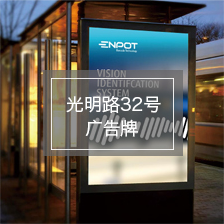
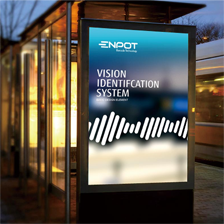
1
1

Changed region(s): [[0.1875, 0.3125, 0.8438, 0.7188]]

diff --git a/index.html b/index.html
@@ -295,23 +295,55 @@
   <div class="tip1"><img src="images/huwai1.png" width="236" height="25" /><div class="nr">更多<img src="images/down1.png" width="15" height="15" /></div></div>
 
   <div class="goods1">
-<div class="zero"><img src="images/tc0.png" width="533" height="224" /></div>
-  <div class="tc" id="tc2"><img src="images/tc1.png" width="224" height="224" /></div>
-  <div class="tc" id="tc3"><img src="images/tc2.png" width="224" height="224" /></div>
-  <div class="tc" id="tc1"><img src="images/tc3.png" width="224" height="224" /></div> 
-  <div class="tc" id="tc2"><img src="images/tc4.png" width="224" height="224" /></div>
-  <div class="tc" id="tc3"><img src="images/tc5.png" width="224" height="224" /></div> 
-  <div class="tc" id="tc4"><img src="images/tc6.png" width="224" height="224" /></div>  
+<div class="zero"><div class="g_box" id="zero_t">
+<div class="g_box_a">光明路<br />户外大牌<br />3000元</div>
+</div><img src="images/tc7.png" width="533" height="224" /></div>
+  <div class="tc" id="tc2"><div class="g_box">
+<div class="g_box_a">光明路<br />户外大牌<br />3000元</div>
+</div><img src="images/tc1.png" width="224" height="224" /></div>
+  <div class="tc" id="tc3"><div class="g_box">
+<div class="g_box_a">光明路<br />户外大牌<br />3000元</div>
+</div><img src="images/tc2.png" width="224" height="224" /></div>
+  <div class="tc" id="tc1">
+  <div class="g_box">
+<div class="g_box_a">光明路<br />户外大牌<br />3000元</div>
+</div>
+  <img src="images/tc3.png" width="224" height="224" /></div> 
+  <div class="tc" id="tc2"><div class="g_box">
+<div class="g_box_a">光明路<br />户外大牌<br />3000元</div>
+</div><img src="images/tc4.png" width="224" height="224" /></div>
+  <div class="tc" id="tc3"><div class="g_box">
+<div class="g_box_a">光明路<br />户外大牌<br />3000元</div>
+</div><img src="images/tc5.png" width="224" height="224" /></div> 
+  <div class="tc" id="tc4"><div class="g_box">
+<div class="g_box_a">光明路<br />户外大牌<br />3000元</div>
+</div><img src="images/tc6.png" width="224" height="224" /></div>  
   <div class="test2" id="test2">
 
-  <div class="tc" id="tc1"><img src="images/tc3.png" width="224" height="224" /></div> 
-  <div class="tc" id="tc2"><img src="images/tc1.png" width="224" height="224" /></div>
-  <div class="tc" id="tc3"><img src="images/tc2.png" width="224" height="224" /></div>
-   <div class="tc" id="tc4"><img src="images/tc6.png" width="224" height="224" /></div>
-  <div class="tc" id="tc1"><img src="images/tc3.png" width="224" height="224" /></div> 
-  <div class="tc" id="tc2"><img src="images/tc4.png" width="224" height="224" /></div>
-  <div class="tc" id="tc3"><img src="images/tc5.png" width="224" height="224" /></div> 
-  <div class="tc" id="tc4"><img src="images/tc6.png" width="224" height="224" /></div>
+  <div class="tc" id="tc1"><div class="g_box">
+<div class="g_box_a">光明路<br />户外大牌<br />3000元</div>
+</div><img src="images/tc3.png" width="224" height="224" /></div> 
+  <div class="tc" id="tc2"><div class="g_box">
+<div class="g_box_a">光明路<br />户外大牌<br />3000元</div>
+</div><img src="images/tc1.png" width="224" height="224" /></div>
+  <div class="tc" id="tc3"><div class="g_box">
+<div class="g_box_a">光明路<br />户外大牌<br />3000元</div>
+</div><img src="images/tc2.png" width="224" height="224" /></div>
+   <div class="tc" id="tc4"><div class="g_box">
+<div class="g_box_a">光明路<br />户外大牌<br />3000元</div>
+</div><img src="images/tc6.png" width="224" height="224" /></div>
+  <div class="tc" id="tc1"><div class="g_box">
+<div class="g_box_a">光明路<br />户外大牌<br />3000元</div>
+</div><img src="images/tc3.png" width="224" height="224" /></div> 
+  <div class="tc" id="tc2"><div class="g_box">
+<div class="g_box_a">光明路<br />户外大牌<br />3000元</div>
+</div><img src="images/tc4.png" width="224" height="224" /></div>
+  <div class="tc" id="tc3"><div class="g_box">
+<div class="g_box_a">光明路<br />户外大牌<br />3000元</div>
+</div><img src="images/tc5.png" width="224" height="224" /></div> 
+  <div class="tc" id="tc4"><div class="g_box">
+<div class="g_box_a">光明路<br />户外大牌<br />3000元</div>
+</div><img src="images/tc6.png" width="224" height="224" /></div>
   
  
 </div>  <a  onClick="Effect('test2',this.parentNode.id,'more1');" ><img id="more1" src="images/down.png" /></a>  

diff --git a/css/in1.css b/css/in1.css
@@ -380,3 +380,38 @@ a{
 	color:#09f;}
 .xzcs_c li{
 	margin-top:25px;}
+
+
+
+.g_box{
+	position:absolute;
+	z-index:10;
+	margin:56px 22px;
+	font-size:16px;
+	width:180px;
+	height:112px;
+	background:rgba(102,102,102,0.5);
+	display: inline-block;
+	transition:all 0.4s;
+	
+	}		
+.tc:hover .g_box,.zero:hover .g_box{
+	transform:scale(1.25,1.25);
+background:rgba(102,102,102,0.8);
+	transform-origin: center;
+	box-shadow:0 0 3px #333;
+	}
+#zero_t{margin:56px 176px;}	
+.tc:hover,.zero:hover{
+	box-shadow:0 0 5px  #000000;}    
+.g_box_a{
+	border:2px solid #FFF;
+	border-radius:4px;
+	margin:12px auto;
+	width:120px;
+	height:60px;
+	background:rgba(51,51,51,0.5);
+	color:#FFF;
+	text-align:center;
+	padding:10px;}		
+        
